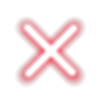
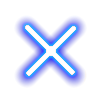
v0.7 done

Changed region(s): [[0.15, 0.18, 0.84, 0.87]]

diff --git a/src/shuken/TaTeTi/Screens/LoadingScreen.java b/src/shuken/TaTeTi/Screens/LoadingScreen.java
@@ -59,7 +59,7 @@ public class LoadingScreen extends ShukenScreen  implements Updateable{
 	public void update(float delta) {
 		
 		if(ResourceManager.loadDone){
-			//TaTeTi.getInstance().setScreen(TaTeTi.getInstance().logginScreen);
+			//TaTeTi.getInstance().setScreen(TaTeTi.getInstance().loginScreen);
 			if(!transitionToLogginScreen.isRunning()) transitionToLogginScreen.start();
 		}
 		
@@ -75,11 +75,11 @@ public class LoadingScreen extends ShukenScreen  implements Updateable{
 	@Override
 	public void render(float delta) {
 		//Limpiamos screen...
-		Gdx.gl.glClearColor(0.88f,0.93f,0.88f,0f);
+		Gdx.gl.glClearColor(0f,0f, 0.15f,0f);
 		Gdx.gl.glClear(GL10.GL_COLOR_BUFFER_BIT);
 
 		batch.begin();
-		batch.draw(loadingTex, 300, 100);
+		batch.draw(loadingTex, 183, 200);
 		font.draw(batch, ResourceManager.porcentajeLoad + "%", 100, 100);
 		
 		//Graficamos transiciones (si hay)

diff --git a/src/shuken/TaTeTi/Entities/Partida.java b/src/shuken/TaTeTi/Entities/Partida.java
@@ -86,6 +86,12 @@ public class Partida implements Renderable, Updateable{
 		//Si hay un ganador, le indicamos al tablero que grafique una linea que una las 3 piezas
 		if(currentState == MatchStates.GANADOR_X) tablero.renderWinner(batch, shapeRender, Ficha.CRUZ);
 		if(currentState == MatchStates.GANADOR_O) tablero.renderWinner(batch, shapeRender, Ficha.CIRCULO);
+		
+		//Graficamos nombres de los jugadores
+		ResourceManager.fonts.UIlabelsFont.draw(batch, getPlayerX().getNick(), 60, 400);
+		ResourceManager.fonts.UIlabelsFont.draw(batch, getPlayerO().getNick(), 530, 400);
+		if(this.getFichaPlayerActual() == Ficha.CRUZ) batch.draw(ResourceManager.textures.cruz, 70, 320, 50, 50);
+		else batch.draw(ResourceManager.textures.circulo, 540, 320, 50, 50);
 	}//fin render
 
 	

diff --git a/src/shuken/TaTeTi/Entities/Tablero.java b/src/shuken/TaTeTi/Entities/Tablero.java
@@ -110,7 +110,7 @@ public class Tablero implements Renderable, Updateable{
 
 	public void renderWinner(SpriteBatch batch, ShapeRenderer shapeRender, Ficha ficha){
 		if(ficha == Ficha.CIRCULO) batch.setColor(0, 1, 0, 0.9f);
-		if(ficha == Ficha.CRUZ) batch.setColor(1, 0, 0, 0.9f);
+		if(ficha == Ficha.CRUZ) batch.setColor(0, 0, 1, 0.9f);
 		
 		//-1
 		if(celdas[1].contains(ficha) && celdas[4].contains(ficha) && celdas[7].contains(ficha)) batch.draw(ResourceManager.textures.lineV, position.x + 20, position.y + 22);

diff --git a/src/shuken/TaTeTi/Screens/GamePlayScreen.java b/src/shuken/TaTeTi/Screens/GamePlayScreen.java
@@ -161,8 +161,6 @@ public class GamePlayScreen extends ShukenScreen implements Updateable{
 			ResourceManager.fonts.defaultFont.draw(batch, "Match State: " + partida.getPartidaState(), 10, Gdx.graphics.getHeight() - 65);
 		}
 		
-		ResourceManager.fonts.defaultFont.draw(batch, partida.getPlayerX().getNick() + " VS " + partida.getPlayerO().getNick(), 200, Gdx.graphics.getHeight()-20);
-		
 		//Graficamos la partida, tablero y demas...
 		partida.render(batch, shapeRender);
 				
